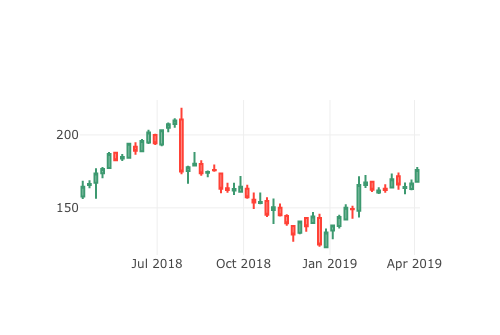
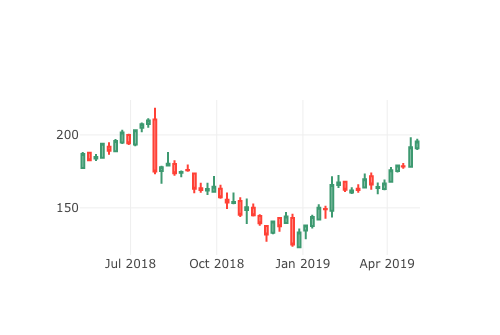
Extend django templates to use items from databse

Changed region(s): [[0.15, 0.3284, 0.84, 0.7463], [0.21, 0.7761, 0.9, 0.806]]

diff --git a/templates/home.html b/templates/home.html
@@ -94,20 +94,24 @@
         <h2>Акции</h2>
       </div>
       <div class="container">
-        <div class="row">
-          <div class="col-xs-12 col-sm-4 chart">
-              <h3 class="text-center">Apple</h3>
-              <img src="{% static 'img/stocks/AAPL.png' %}" class="img-responsive" alt="">
+        {% block content %}
+          <div class="row">
+            {% for share in object_list|slice:":3" %}
+            <div class="col-xs-12 col-sm-4 chart">
+                <h3 class="text-center">{{ share.title }}</h3>
+                <img src="{% get_static_prefix %}img/stocks/{{ share.ticker }}.png" class="img-responsive" alt="">
+            </div>
+            {% endfor %}
           </div>
-          <div class="col-xs-12 col-sm-4 chart">
-              <h3 class="text-center">Facebook</h3>
-              <img src="{% static 'img/stocks/FB.png' %}" class="img-responsive" alt="">
-          </div>
-          <div class="col-xs-12 col-sm-4 chart">
-              <h3 class="text-center">Google</h3>
-              <img src="{% static 'img/stocks/GOOGL.png' %}" class="img-responsive" alt="">
-          </div>
-        </div>
+          <div class="row">
+              {% for share in object_list|slice:"3:6" %}
+              <div class="col-xs-12 col-sm-4 chart">
+                  <h3 class="text-center">{{ share.title }}</h3>
+                  <img src="{% get_static_prefix %}img/stocks/{{ share.ticker }}.png" class="img-responsive" alt="">
+              </div>
+              {% endfor %}
+            </div>
+        {% endblock content %}
     </div>
   </div>
   <!-- Footer -->

diff --git a/stocks/tasks.py b/stocks/tasks.py
@@ -11,15 +11,8 @@ from stocks.models import Share
 def download_data_task():
     root_path = os.path.abspath(os.path.dirname(__name__))
     storage_path = root_path + '/static/data'
+    img_path = root_path + '/static/img/stocks'
     for share in Share.objects.all():
         download_data(share.ticker, ALPHA_DOWNLOAD_KEY, storage_path)
-
-
-@task()
-def draw_plot_task():
-    root_path = os.path.abspath(os.path.dirname(__name__))
-    data_path = root_path + '/static/data'
-    storage_path = root_path + '/static/img/stocks'
-    for share in Share.objects.all():
-        csv_path = data_path + '/' + share.ticker + '.csv'
-        generate_image(csv_path, 52, storage_path)
+        csv_path = storage_path + '/' + share.ticker + '.csv'
+        generate_image(csv_path, 52, img_path)

diff --git a/EasyStocks/settings.py b/EasyStocks/settings.py
@@ -134,12 +134,7 @@ CELERY_RESULT_BACKEND = 'redis://' + REDIS_HOST + ':' + REDIS_PORT + '/0'
 CELERY_BEAT_SCHEDULE = {
     'download_data_task': {
         'task': 'stocks.tasks.download_data_task',
-        'schedule': 60,
-        # 'schedule': crontab(minute=20, hour=20),
+        # 'schedule': 3600,
+         'schedule': crontab(minute=35, hour=18),
     },
-    'draw_image_task': {
-        'task': 'stocks.tasks.draw_plot_task',
-        'schedule': 120,
-        # 'schedule': crontab(minute=20, hour=20),
-    }
 }
